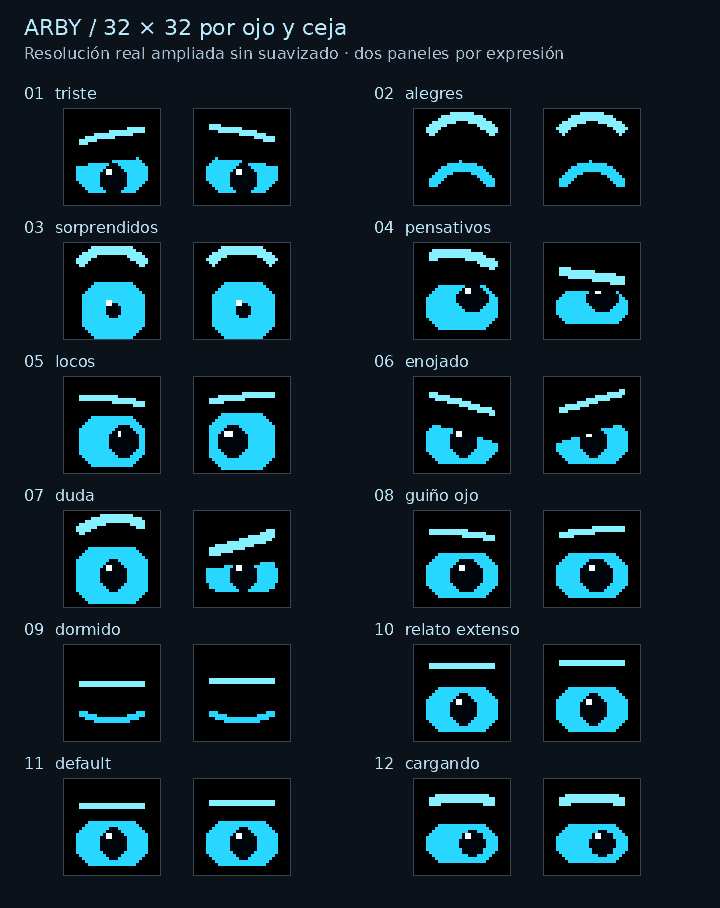
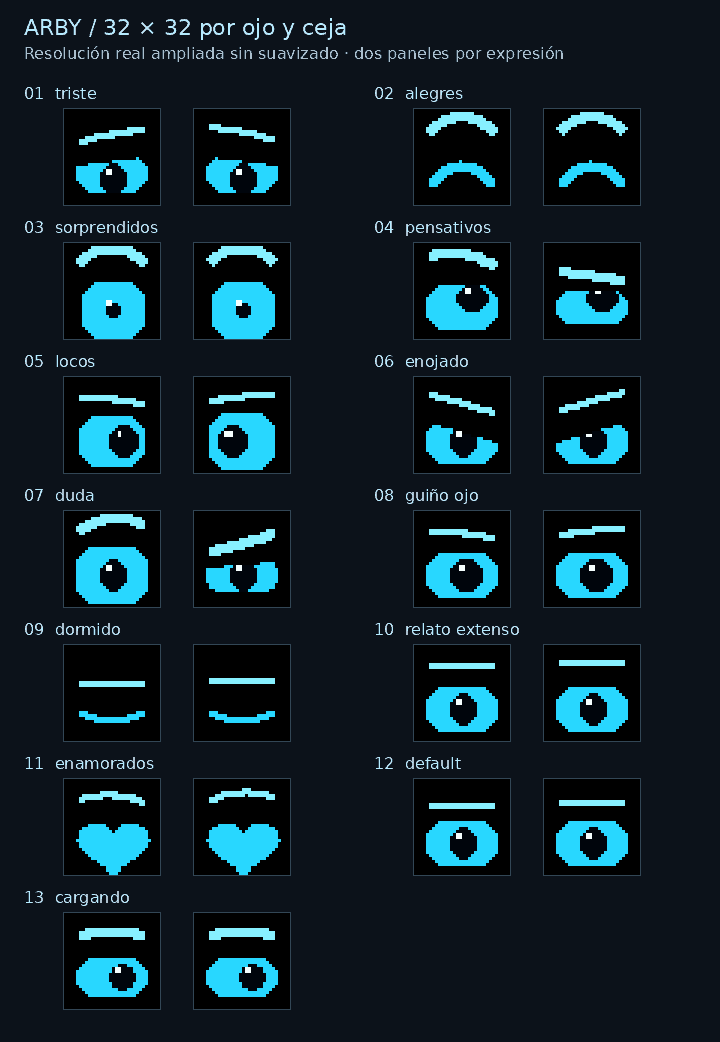
added loving face

diff --git a/libraries/eyes/arby_eyes.py b/libraries/eyes/arby_eyes.py
@@ -10,7 +10,7 @@ import unicodedata
 from PIL import Image, ImageDraw
 
 EMOTION_STATES = ("triste", "alegres", "sorprendidos", "pensativos", "locos", "enojado",
-          "duda", "guiño ojo", "dormido", "relato extenso")
+          "duda", "guiño ojo", "dormido", "relato extenso", "enamorados")
 SYSTEM_STATES = ("default", "cargando")
 STATES = EMOTION_STATES + SYSTEM_STATES
 ALIASES = {"default": "default", "reposo": "default", "idle": "default",
@@ -18,7 +18,8 @@ ALIASES = {"default": "default", "reposo": "default", "idle": "default",
            "sorprendido": "sorprendidos", "sorprendidos": "sorprendidos",
            "pensativo": "pensativos", "pensativos": "pensativos", "loco": "locos", "locos": "locos",
            "enojado": "enojado", "duda": "duda", "guino ojo": "guiño ojo",
-           "dormido": "dormido", "relato extenso": "relato extenso"}
+           "dormido": "dormido", "relato extenso": "relato extenso",
+           "enamorado": "enamorados", "enamorados": "enamorados"}
 
 
 def normalize_state(state: str) -> str:
@@ -47,6 +48,7 @@ class EyePose:
     closed: float = 0
     brow_width: float = 2
     smile: float = 0
+    heart: float = 0
 
 
 def _mix(a, b, amount):
@@ -125,6 +127,9 @@ def _pose(state, side, t):
                     brow_outer=7 - emphasis * 1.4,
                     brow_inner=7 - emphasis * 1.4,
                     pupil_x=1.6 * math.sin(t * 0.8), pupil_y=0.5 * math.sin(t * 1.1))
+    elif state == "enamorados":
+        p = replace(p, heart=1, width=22 + 2*bounce, height=18 + 2*bounce,
+                    cy=22, brow_outer=6, brow_inner=7, brow_arch=-4)
     if state != "dormido":
         p = replace(p, closed=max(p.closed, _blink(t)))
     return p
@@ -290,4 +295,19 @@ class EyeAnimator:
                                (15.5, pose.cy + 3 - 2 * lift),
                                (26, pose.cy + 3)], self.style.eye_color, 3)
             panel = Image.blend(panel, smiling, min(1.0, pose.smile))
+        if pose.heart > 0:
+            heart_panel = Image.new("RGB", (32, 32))
+            hd = ImageDraw.Draw(heart_panel)
+            _curve(hd, [outer, (15.5, (outer[1]+inner[1])/2+pose.brow_arch), inner],
+                   self.style.brow_color, max(2, round(pose.brow_width)))
+            points = []
+            for i in range(80):
+                angle = 2 * math.pi * i / 80
+                x = 16 * math.sin(angle)**3
+                y = (13*math.cos(angle)-5*math.cos(2*angle)
+                     -2*math.cos(3*angle)-math.cos(4*angle))
+                points.append((round(16+x*pose.width/32),
+                               round(pose.cy-y*pose.height*openness/32)))
+            hd.polygon(points, fill=self.style.eye_color)
+            panel = Image.blend(panel, heart_panel, min(1.0, pose.heart))
         return panel

diff --git a/libraries/tests/test_eyes.py b/libraries/tests/test_eyes.py
@@ -25,7 +25,26 @@ class EyesTests(unittest.TestCase):
                     self.assertIsNotNone(panel.crop((0,13,32,32)).getbbox())
                 digest.update(frame.tobytes())
             signatures.add(digest.digest())
-        self.assertEqual(len(signatures),12)
+        self.assertEqual(len(signatures),13)
+
+    def test_heart_contract_animation_and_alias(self):
+        from libraries.core.arby_response import MATRIX_STATES, make_segment
+        from libraries.eyes.arby_eyes import EMOTION_STATES
+        self.assertEqual(set(EMOTION_STATES), set(MATRIX_STATES))
+        self.assertEqual(normalize_state("Enamorado"), "enamorados")
+        animator = EyeAnimator()
+        animator.apply_response(make_segment("Qué lindo detalle", "enamorados"), now=0)
+        self.assertEqual(animator.state, "enamorados")
+        self.assertEqual(animator.style.eye_color, (255, 50, 110))
+        heart = EyeAnimator("enamorados")
+        self.assertNotEqual(heart.render(0).tobytes(), heart.render(.4).tobytes())
+        panel = heart.render(0).crop((0, 0, 32, 32))
+        # Two lobes, a notch at the top and a central point at the bottom.
+        color = heart.style.eye_color
+        self.assertEqual(panel.getpixel((10, 16)), color)
+        self.assertEqual(panel.getpixel((22, 16)), color)
+        self.assertEqual(panel.getpixel((16, 16)), (0, 0, 0))
+        self.assertEqual(panel.getpixel((16, 31)), color)
 
     def test_aliases_and_validation(self):
         self.assertEqual(normalize_state('Guiño_ojo'),'guiño ojo')

diff --git a/libraries/bot/arby_bot.py b/libraries/bot/arby_bot.py
@@ -122,6 +122,7 @@ Elige matrix_state según el sentido de TU respuesta y el contexto:
 - guiño ojo: complicidad, broma o comentario con picardía amistosa.
 - dormido: despedida para descansar o referencia a sueño; no durante una respuesta activa normal.
 - relato extenso: solo cuando realmente estás contando una historia larga solicitada.
+- enamorados: cariño, ternura o aprecio; ojos de corazón, sin forzar romance.
 Elige una sola expresión por segmento. No alargues el texto para justificarla.
 strip_led.mood debe coincidir exactamente con matrix_state.
 El color es el RGB fijo de ese estado según esta tabla:

diff --git a/libraries/examples/export_previews.py b/libraries/examples/export_previews.py
@@ -22,7 +22,7 @@ def main():
     palette.putpalette(sum((list(c) for c in colors),[])+[0]*(768-len(colors)*3))
     for i in range(100):
         t=i/20
-        board=Image.new('RGB',(720,908),(12,18,26))
+        board=Image.new('RGB',(720, 104 + ((len(STATES)+1)//2)*134),(12,18,26))
         draw=ImageDraw.Draw(board)
         draw.text((24,14),'ARBY / 32 × 32 por ojo y ceja',font=title,fill=(180,235,255))
         draw.text((24,44),'Resolución real ampliada sin suavizado · dos paneles por expresión',font=text,fill=(170,190,205))

diff --git a/libraries/core/arby_response.py b/libraries/core/arby_response.py
@@ -9,6 +9,7 @@ EMOTION_COLORS = {
     "locos": (255, 0, 180), "enojado": (255, 0, 0),
     "duda": (255, 130, 0), "guiño ojo": (255, 80, 140),
     "dormido": (0, 0, 35), "relato extenso": (0, 180, 180),
+    "enamorados": (255, 50, 110),
 }
 MATRIX_STATES = tuple(EMOTION_COLORS)
 DEFAULT_STATE = "pensativos"

diff --git a/README_eyes.md b/README_eyes.md
@@ -13,7 +13,7 @@ reemplazarlo. Python también puede importar esta carpeta como paquete namespace
 
 | Archivo del ZIP | Destino | Acción |
 | --- | --- | --- |
-| `libraries/eyes/arby_eyes.py` | `arby-interactive/libraries/eyes/arby_eyes.py` | Reemplazar o agregar; motor de las 12 animaciones |
+| `libraries/eyes/arby_eyes.py` | `arby-interactive/libraries/eyes/arby_eyes.py` | Reemplazar o agregar; motor de las 13 animaciones |
 | `libraries/examples/demo_eyes.py` | `arby-interactive/libraries/examples/demo_eyes.py` | Reemplazar o agregar; simulador actualizado |
 | `libraries/eyes/matrix_output.py` | `arby-interactive/libraries/eyes/matrix_output.py` | Copiar si falta; adaptador físico, igual a la entrega anterior |
 | `libraries/examples/export_previews.py` | `arby-interactive/libraries/examples/export_previews.py` | Reemplazar o agregar; herramienta opcional para regenerar GIF |
@@ -55,7 +55,7 @@ Pygame: únicamente el simulador lo utiliza.
 | 0 | relato extenso |
 | D | default / reposo |
 | C | cargando |
-| Espacio | Siguiente estado |
+| Espacio | Siguiente estado, incluido enamorados |
 | A | Activar o desactivar el cambio automático cada cinco segundos |
 | G | Mostrar u ocultar cuadrícula |
 | Esc | Cerrar |
@@ -71,11 +71,12 @@ uv run python -m libraries.examples.demo_eyes --state pensativos
 
 Se conservan los diez nombres de emoción ya usados por Gemini:
 `triste`, `alegres`, `sorprendidos`, `pensativos`, `locos`, `enojado`, `duda`,
-`guiño ojo`, `dormido`, `relato extenso`.
+`guiño ojo`, `dormido`, `relato extenso`. Se incorpora `enamorados` como undécima
+emoción, también disponible mediante el alias `enamorado` en el motor.
 
 Se agregan dos estados de aplicación: `default` y `cargando`. `EMOTION_STATES`
-contiene las diez emociones; `SYSTEM_STATES` contiene estos dos estados;
-`STATES` reúne los doce. El estado inicial de `EyeAnimator()` ahora es `default`.
+contiene las once emociones; `SYSTEM_STATES` contiene estos dos estados;
+`STATES` reúne los trece estados. El estado inicial de `EyeAnimator()` ahora es `default`.
 
 | Estado actualizado | Diseño |
 | --- | --- |
@@ -86,8 +87,9 @@ contiene las diez emociones; `SYSTEM_STATES` contiene estos dos estados;
 | default | Mirada tranquila, cejas relajadas y parpadeo |
 | cargando | Pupilas en movimiento circular y cejas que suben alternadamente |
 
-Los otros seis diseños conservan su aspecto anterior. Las doce expresiones se
-verificaron comparando los píxeles de 1.200 fotogramas con la propuesta aprobada.
+Los otros seis diseños anteriores conservan su aspecto. Se añade `enamorados`: ojos
+de corazón con latido suave y transición mezclada con los ojos normales. El bot lo
+puede elegir para expresar cariño, ternura o aprecio; su color es rosa (255, 50, 110).
 Los cambios de estado duran 0,30 segundos; se interpolan geometría y cejas, y se
 mezcla suavemente la forma sonriente al entrar o salir de `alegres`.
 
@@ -198,7 +200,7 @@ También se comprobaron colores en ambos paneles y sus cejas, validación sin
 cambios parciales, actualización de RGB sin reiniciar la emoción y vuelta al color
 de reposo.
 Los controles D, C y Esc se comprobaron ejecutando Pygame con pantalla simulada.
-`export_previews` genera el tablero y doce GIF de 64 × 32 en `previews/`.
+`export_previews` genera el tablero y trece GIF de 64 × 32 en `previews/`.
 
 Referencias del controlador: [repositorio](https://github.com/hzeller/rpi-rgb-led-matrix),
 [mapeo GPIO](https://github.com/hzeller/rpi-rgb-led-matrix/blob/master/wiring.md).
